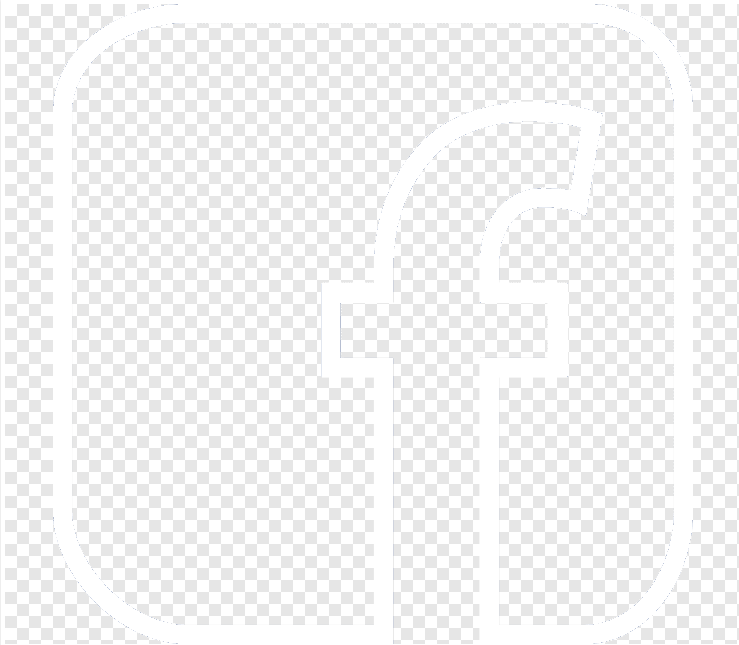
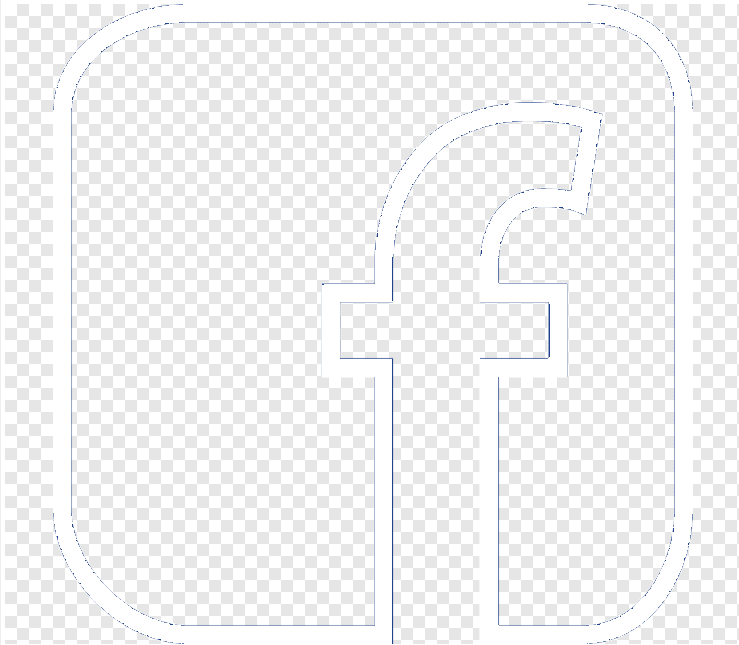
mob1

Changed region(s): [[0.7158, 0.5271, 0.747, 0.5581], [0.7158, 0.4651, 0.747, 0.4961], [0.2179, 0.9922, 0.249, 1.0]]

diff --git a/src/components/Cover/Banner.js b/src/components/Cover/Banner.js
@@ -343,7 +343,7 @@ updateWindowDimensions() {
           filter={this.state.pause? "url(#my-insta)":"url(#my-secondinsta)"}
                   alt="globe"
                   id="id2"
-                  xlinkHref="https://w7.pngwing.com/pngs/804/148/png-transparent-social-media-facebook-computer-icons-logo-facebook-outline-facebook-logo-blue-angle-white-thumbnail.png"
+                  xlinkHref="https://raw.githubusercontent.com/Hossik/MyPlanet/master/public/assets/face.png"
                   x="6"
                   y="2"
                   width="226px"
